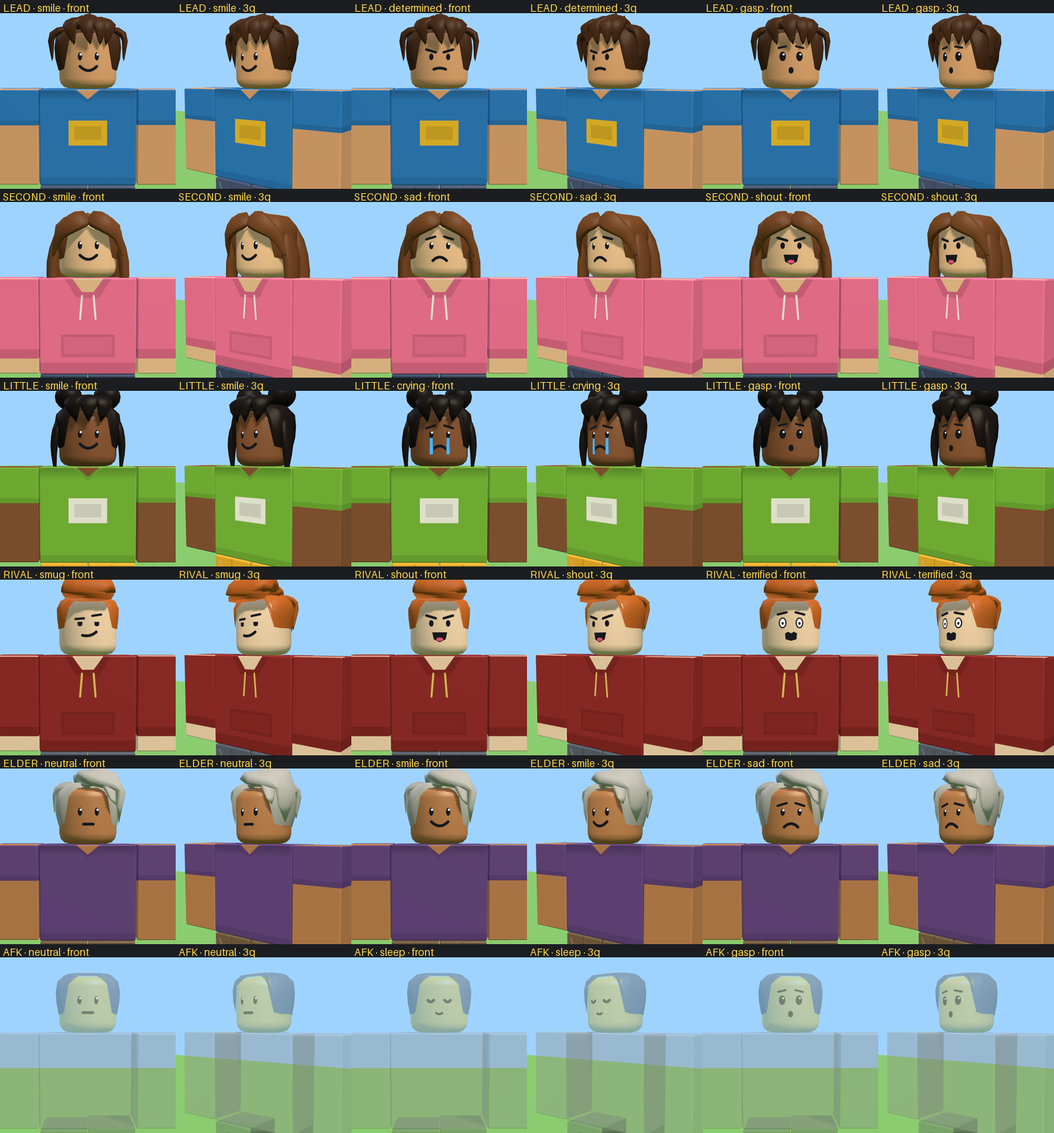
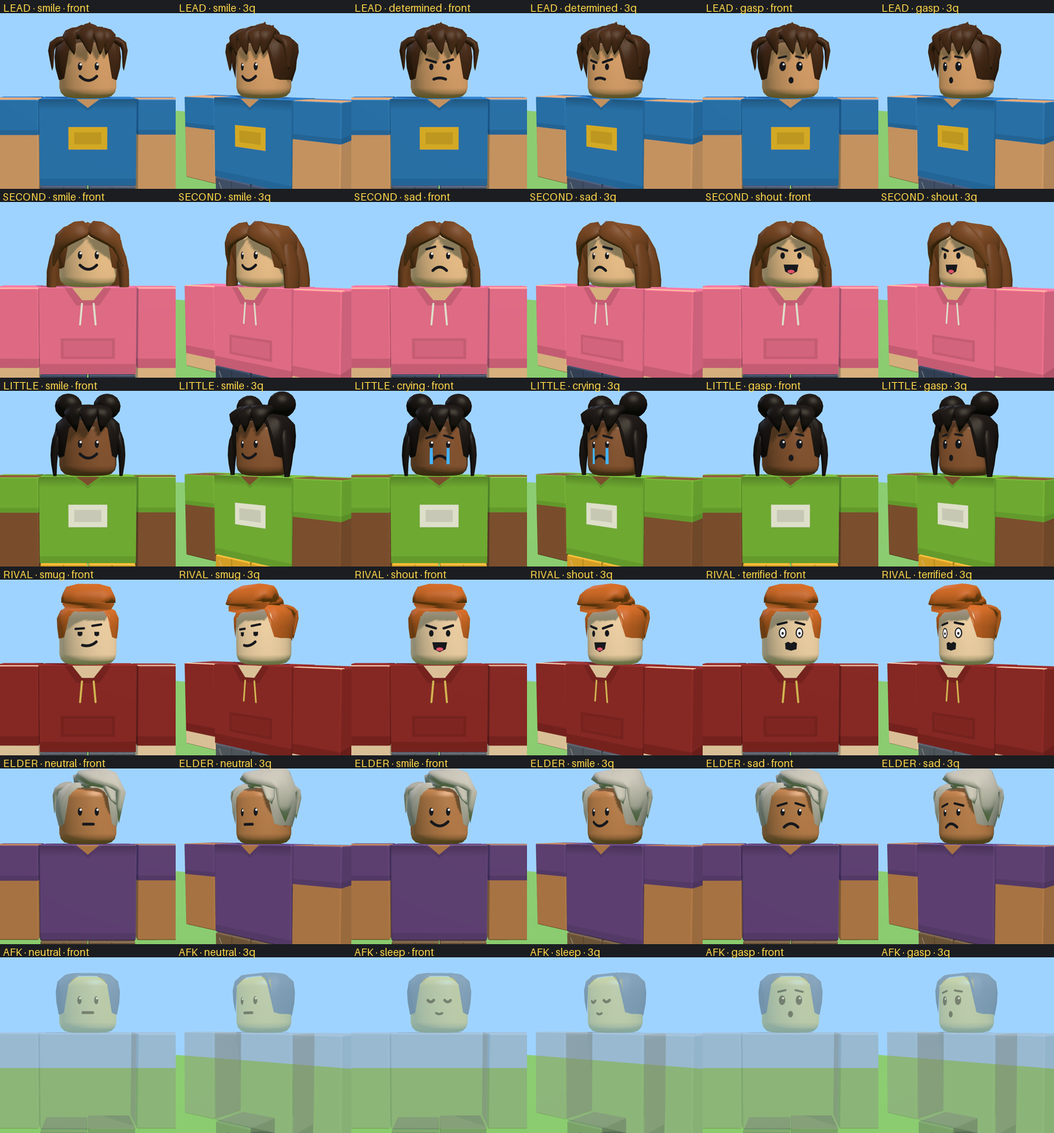
Session 8b: owner Decisions 3–5 — §E PASS (owner), deeper nightBright sky + glowing egg; fine terrain within 30 units + ragdoll LOD/merge (≤ 90k PASS, s/frame 0.68–0.70 reported); body builds (adult_f, youth, elder_f) + tests + builds-390.png; stability, Nobody, tests pass
Claude-Session: https://claude.ai/code/session_01J6UjxwALwUXzwUnfoeqYWB

diff --git a/engine/fixtures/looktest/egg.js b/engine/fixtures/looktest/egg.js
@@ -17,6 +17,17 @@ export const LAYER = {plaza: .14, road: .1};
 const NIGHT_DIM = .6, SQ = 18, ROAD = 33, BASE_R = 47, POND = [52, 44];
 
 const OLD = {asphalt: ['plastic', '#55585f'], concrete: ['plastic'], plaster: ['plastic'], roofTile: ['slate']};   // the v2 kit had no such patterns
+// Decision 3: a glowing egg reads at 390 px: warm emissive body, a gold back-face rim shell, and a soft additive halo sprite.
+let haloTex = null;
+function glowEgg(r, glow = true) {
+  const g = new T.Group(), body = new T.Mesh(new T.SphereGeometry(r, 16, 12), new T.MeshPhongMaterial({color: '#fff3c8', emissive: '#ffc14a', emissiveIntensity: glow ? 1.5 : .9}));
+  body.scale.set(1, 1.3, 1); g.add(body); if (!glow) return g;
+  const rim = new T.Mesh(new T.SphereGeometry(r * 1.12, 16, 12), new T.MeshBasicMaterial({color: '#ffd24a', side: T.BackSide, toneMapped: false})); rim.scale.set(1, 1.3, 1); g.add(rim);
+  if (!haloTex && typeof document !== 'undefined') { const c = document.createElement('canvas'); c.width = c.height = 128; const x = c.getContext('2d'), gr = x.createRadialGradient(64, 64, 0, 64, 64, 64);
+    gr.addColorStop(0, 'rgba(255,214,110,.85)'); gr.addColorStop(.35, 'rgba(255,190,70,.35)'); gr.addColorStop(1, 'rgba(255,170,40,0)'); x.fillStyle = gr; x.fillRect(0, 0, 128, 128); haloTex = new T.CanvasTexture(c); haloTex.colorSpace = T.SRGBColorSpace; }
+  const halo = new T.Sprite(new T.SpriteMaterial({map: haloTex, blending: T.AdditiveBlending, depthWrite: false, transparent: true, toneMapped: false})); halo.scale.setScalar(r * 6); halo.renderOrder = 3; g.add(halo);
+  return g;
+}
 export function build(scene, {P, B, A, M, PR, TR, BI, V, W, look, spec}) {
   const NEW = spec.kit !== 'old', R = B.rng(11), anchors = {}, movers = [], hero = new T.Group(); hero.name = 'hero';
   const dim = (c, k = NIGHT_DIM) => '#' + new T.Color(c).multiplyScalar(k).getHexString();   // A5 Decision 2: night ground/walls at ~60 %
@@ -33,7 +44,7 @@ export function build(scene, {P, B, A, M, PR, TR, BI, V, W, look, spec}) {
       ...bases.map(b => ({type: 'pad', x0: b.x - 8, x1: b.x + 8, z0: b.z - 8, z1: b.z + 8, y: .4 + (b.i % 3) * .3, blend: 8})),
       {type: 'valley', from: [POND[0] - 8, POND[1]], to: [POND[0] + 10, POND[1] + 6], w: 16, depth: 3.2}];
     const height = TR.heightFn({seed: 5, controls}); groundY = height;
-    const terr = TR.buildTerrain({height, size: 660, chunk: 30, fine: 1.5, fullR: 60, focus: [[0, 76], [11, 32], [-6, 24], [8, 22]], material: M.splatMaterial(bio.terrain.layers, {splat: bio.terrain, wetY: -1.1}), splat: bio.terrain});   // A5: per-pixel blend, 1.5-unit cells near the cameras
+    const terr = TR.buildTerrain({height, size: 660, chunk: 30, fine: 1.5, fullR: 30, focus: [[0, 76], [11, 32], [-6, 24], [8, 22]], material: M.splatMaterial(bio.terrain.layers, {splat: bio.terrain, wetY: -1.1}), splat: bio.terrain});   // A5: per-pixel blend, 1.5-unit cells near the cameras
     scene.add(terr);
     const wat = W.water({height, x0: POND[0] - 22, x1: POND[0] + 24, z0: POND[1] - 14, z1: POND[1] + 18, y: -1.1, ...bio.water, sky: '#3a5aa0', foam: .1, envMap: look.envMap?.()});
     scene.add(wat.mesh); movers.push(wat);
@@ -66,7 +77,7 @@ export function build(scene, {P, B, A, M, PR, TR, BI, V, W, look, spec}) {
     g.add(P.block([3.6, 5, .3], {at: [0, 3.3, d / 2 + .1], mat: mt('woodPlanks', c), cast: true}));                      // door
     for (const sx of [-1, 1]) { const m = new T.Mesh(new T.BoxGeometry(2, 2, .2), win); m.position.set(sx * (w / 2 - 2.2), 4.2, d / 2 + .12); g.add(m); }
     const pad = new T.Mesh(new T.RingGeometry(1.6, 2.3, 32), new T.MeshBasicMaterial({color: c, fog: true})); pad.rotation.x = -Math.PI / 2; pad.position.set(0, .06, d / 2 + 3.2); g.add(pad);   // lock ring
-    const egg = new T.Mesh(new T.SphereGeometry(.45, 12, 8), new T.MeshPhongMaterial({color: '#fff3c8', emissive: '#ffcf6b', emissiveIntensity: .9})); egg.scale.set(1, 1.3, 1); egg.position.set(2.6, 1.2, d / 2 + 1.6); g.add(egg);
+    const egg = glowEgg(.45, NEW); egg.position.set(2.6, 1.2, d / 2 + 1.6); g.add(egg);
     g.position.set(b.x, groundY(b.x, b.z), b.z); g.rotation.y = b.yaw; return g;
   }
   function clockTower() {
@@ -116,7 +127,7 @@ export function build(scene, {P, B, A, M, PR, TR, BI, V, W, look, spec}) {
     // warm practical light: two real point lights over the square (≤ 4 allowed) key the avatars and pool on the cobbles
     for (const [x, z] of [[-3.5, 14], [4.5, 12]]) { const l = new T.PointLight('#ffc27a', 9, 11, 2); l.position.set(x, groundY(x, z) + 4.2, z); scene.add(l); }   // warm practicals keyed on the cast's faces, short reach
     // A5 §E: a glowing egg on the square is a real light source (third point light of ≤ 4)
-    const eg = new T.Mesh(new T.SphereGeometry(.55, 16, 12), new T.MeshPhongMaterial({color: '#fff3c8', emissive: '#ffc14a', emissiveIntensity: 1.6})); eg.scale.set(1, 1.3, 1); eg.position.set(-.6, groundY(0, 10) + .75, 11.5); eg.name = 'egg'; scene.add(eg);
+    const eg = glowEgg(.55, true); eg.position.set(-.6, groundY(0, 10) + .75, 11.5); eg.name = 'egg'; scene.add(eg);
     // (the egg glows by emission only: a light at its height would pool on the cobbles around the cast)
     // gardens: a hedge pair flanking every base door + a tree between neighbouring bases
     const hedge = new T.MeshPhongMaterial({color: '#4f7a3a', shininess: 6, map: M.patternTexture('leaves')}), trunk = new T.MeshPhongMaterial({color: '#5a4232', map: M.patternTexture('bark')}), crown = new T.MeshPhongMaterial({color: '#3f6a34', shininess: 8, map: M.patternTexture('leaves')});   // A5: smooth

diff --git a/avatar-style/body.js b/avatar-style/body.js
@@ -56,17 +56,59 @@ export const PARTS = {
 
 // createActor: {tier: 'hero'|'bg', skin, scale, materials: {torso, leftArm, ...}} → avatar-shaped object.
 // `materials[part]` may be one material or a 6-face array (clothing paint); default is skin plastic.
-export function createActor({tier = 'hero', skin = SKINS[0], scale = 1, materials = {}, name = 'actor'} = {}) {
+// ---- A5 Decision 5: body builds (opt-in `build`; adult_m = the original torso) -----------------------------------
+// Widths in studs at the shoulders (top), waist (at waistAt of the torso height, from the top) and hips (bottom).
+export const BUILDS = {
+  adult_m: {shoulder: 2, waist: 2, hip: 2, waistAt: .55, height: 1, leg: .98},
+  adult_f: {shoulder: 1.9, waist: 1.6, hip: 1.85, waistAt: .55, height: 1, leg: .9},     // subtle hourglass, adult women only
+  youth: {shoulder: 2, waist: 2, hip: 2, waistAt: .55, height: .9, leg: .98},            // anyone under 18: straight, 0.9 torso
+  elder_f: {shoulder: 2, waist: 2.12, hip: 2.04, waistAt: .55, height: 1, leg: .98, stoop: .09},   // grandmas: wider waist, stoop
+};
+export const ADULT_ONLY = ['adult_f', 'elder_f', 'adult_m'];
+// Torso width at u (0 = top/shoulders … 1 = bottom/hips): linear shoulder → waist → hip (pure).
+export function torsoWidthAt(build, u) {
+  const b = BUILDS[build] ?? BUILDS.adult_m, w = Math.min(1, Math.max(0, u));
+  return w <= b.waistAt ? b.shoulder + (b.waist - b.shoulder) * (w / b.waistAt) : b.waist + (b.hip - b.waist) * ((w - b.waistAt) / (1 - b.waistAt));
+}
+// A cast entry's build must fit its age: under 18 → youth only (never adult_f / elder_f / adult_m). Returns an error or null.
+export function buildError(entry) {
+  const b = entry.build ?? (entry.age !== undefined && entry.age < 18 ? 'youth' : 'adult_m');
+  if (!BUILDS[b]) return `unknown build ${b}`;
+  if (entry.age !== undefined && entry.age < 18 && b !== 'youth') return `${entry.name ?? 'actor'} is ${entry.age}: build must be youth, not ${b}`;
+  if (entry.age !== undefined && entry.age >= 18 && b === 'youth') return `${entry.name ?? 'actor'} is ${entry.age}: youth is for under 18`;
+  return null;
+}
+// Part layout for a build (pure): torso size/centre, shoulder and hip pivots, leg width.
+export function buildLayout(build) {
+  const b = BUILDS[build] ?? BUILDS.adult_m, th = 2 * b.height, top = 2.02 + th;
+  return {torso: {size: [2, th, 1], at: [0, 2.02 + th / 2, 0]}, headPivot: [0, top + .01, 0], shoulderX: b.shoulder / 2 + .51, shoulderY: top, hipX: Math.max(b.leg / 2 + .005, b.hip / 2 - b.leg / 2 - .005), leg: b.leg};
+}
+function torsoGeometry(build, tier) {
+  if (!build || build === 'adult_m') return blockGeometry(PARTS.torso.size, tier);
+  const L = buildLayout(build), [w, h, d] = L.torso.size;
+  return cached(`torso:${build}:${tier}`, () => {
+    const g = new T.BoxGeometry(w, h, d, 1, tier === 'hero' ? 10 : 6, 1);   // rows through the height so the waist exists (a rounded box only has rows at its bevels)
+    const p = g.attributes.position;
+    for (let i = 0; i < p.count; i++) { const u = (h / 2 - p.getY(i)) / h; p.setX(i, p.getX(i) * torsoWidthAt(build, u) / 2); }
+    g.computeVertexNormals(); return g;
+  });
+}
+
+export function createActor({tier = 'hero', skin = SKINS[0], scale = 1, materials = {}, name = 'actor', build = null} = {}) {
+  const L = build && build !== 'adult_m' ? buildLayout(build) : null;
+  const layout = L ? {torso: {...PARTS.torso, size: L.torso.size, at: L.torso.at}, head: {...PARTS.head, pivotAt: L.headPivot},
+    leftArm: {...PARTS.leftArm, pivotAt: [-L.shoulderX, L.shoulderY, 0]}, rightArm: {...PARTS.rightArm, pivotAt: [L.shoulderX, L.shoulderY, 0]},
+    leftLeg: {...PARTS.leftLeg, size: [L.leg, 2, 1], pivotAt: [-L.hipX, 2, 0]}, rightLeg: {...PARTS.rightLeg, size: [L.leg, 2, 1], pivotAt: [L.hipX, 2, 0]}} : PARTS;
   const root = new T.Group(); root.name = name; root.scale.setScalar(scale);
   const parts = {}, pivots = {};
-  for (const [part, d] of Object.entries(PARTS)) {
+  for (const [part, d] of Object.entries(layout)) {
     let parent = root;
     if (d.pivot) { const p = new T.Group(); p.name = d.pivot; p.position.set(...d.pivotAt); root.add(p); pivots[d.pivot] = p; parent = p; }
-    const geo = part === 'head' ? headGeometry(tier) : blockGeometry(d.size, tier);
+    const geo = part === 'head' ? headGeometry(tier) : part === 'torso' ? torsoGeometry(build, tier) : blockGeometry(d.size, tier);
     const m = new T.Mesh(geo, materials[part] ?? plastic(skin)); m.name = part; m.position.set(...d.at);
     m.castShadow = true; m.receiveShadow = tier === 'hero'; parent.add(m); parts[part] = m;
   }
-  return {root, parts, pivots, tier, skin, restPositions: Object.fromEntries(Object.entries(pivots).map(([n, p]) => [n, p.position.toArray()])),
+  return {root, parts, pivots, tier, skin, build: build ?? 'adult_m', restPositions: Object.fromEntries(Object.entries(pivots).map(([n, p]) => [n, p.position.toArray()])),
     faceCache: new Map(), cosmeticCache: new Map(), faceLayer: null, cosmetic: null, attachments: {}};
 }
 

diff --git a/scripts/v2/builds-sheet.js b/scripts/v2/builds-sheet.js
@@ -1,0 +1,41 @@
+// scripts/v2/builds-sheet.js — A5 Decision 5 review sheet: the four body builds side by side (front + three-quarter, full body)
+// and a mom (adult_f) with Kit (youth) at medium size, every cell 390 × 693 (phone width). → review/season1/builds-390.png
+//   node scripts/v2/builds-sheet.js [--out review/season1]
+import {mkdir, writeFile, readFile} from 'node:fs/promises';
+import {execFileSync} from 'node:child_process';
+import {startServer} from './server.js';
+import {launch} from './browser.js';
+import {resolveTroupe} from '../../engine/troupe.js';
+
+const argv = process.argv.slice(2), out = argv.includes('--out') ? argv[argv.indexOf('--out') + 1] : 'review/season1', raw = 'renders/v2/builds-sheet';
+await mkdir(out, {recursive: true}); await mkdir(raw, {recursive: true});
+const troupe = JSON.parse(await readFile('cast/troupe.json', 'utf8'));
+const cast = {cast: {
+  adult_m: {tier: 'hero', build: 'adult_m', age: 38, skin: '#c08457', face: 'smile', hair: {style: 'side_part', color: '#3a2418', v: 4}, outfit: {recipe: 'tee', main: '#3f8fb0', accent: '#ffffff', legs: '#4a5a80', trim: '#e4574a'}},
+  adult_f: {tier: 'hero', build: 'adult_f', age: 36, skin: '#f6c9a0', face: 'smile', hair: {style: 'wavy_bob', color: '#6b4428', v: 4}, outfit: {recipe: 'tee', main: '#e2733a', accent: '#ffffff', legs: '#4a5a80', trim: '#2f80d1'}},
+  youth: {...resolveTroupe({troupe: 'LEAD'}, troupe), tag: null},
+  elder_f: {tier: 'hero', build: 'elder_f', age: 72, skin: '#e0a77a', face: 'smile', hair: {style: 'messy_bun', color: '#c9c9c9', v: 4}, outfit: {recipe: 'hoodie', main: '#8a6be8', accent: '#ffffff', legs: '#7a6048', trim: '#f2d16b'}},
+  mom: {tier: 'hero', build: 'adult_f', age: 39, skin: '#f6c9a0', face: 'smile', hair: {style: 'long_layered', color: '#7a4a2a', v: 4}, outfit: {recipe: 'tee', main: '#2e9e78', accent: '#ffffff', legs: '#4a5a80', trim: '#f2b632'}, tag: {name: 'Mom'}},
+  kit: {...resolveTroupe({troupe: 'SECOND', role: 'Kit'}, troupe)},
+}};
+await writeFile(`${raw}/cast.json`, JSON.stringify(cast));
+const full = (id, az) => { const a = az * Math.PI / 180, d = 15; return {actors: [{id, at: [0, 0, 0], tag: false, pose: 'idle', t: .3}], camera: {position: [Math.sin(a) * d, 3.2, Math.cos(a) * d], target: [0, 2.75, 0], fov: 28}}; };
+const pair = az => { const a = az * Math.PI / 180, d = 13.5; return {actors: [{id: 'mom', at: [-1.35, 0, 0], yaw: 8, pose: 'idle', t: .2}, {id: 'kit', at: [1.25, 0, .3], yaw: -10, pose: 'wave', t: .4}], camera: {position: [Math.sin(a) * d, 3.4, Math.cos(a) * d], target: [0, 3.0, 0], fov: 34}}; };
+const CELLS = [['adult_m', 'front', full('adult_m', 0)], ['adult_f', 'front', full('adult_f', 0)], ['youth', 'front', full('youth', 0)], ['elder_f', 'front', full('elder_f', 0)], ['mom + Kit', 'medium front', pair(0)],
+  ['adult_m', '3/4', full('adult_m', 38)], ['adult_f', '3/4', full('adult_f', 38)], ['youth', '3/4', full('youth', 38)], ['elder_f', '3/4', full('elder_f', 38)], ['mom + Kit', 'medium 3/4', pair(30)]];
+const server = await startServer(), browser = await launch();
+try {
+  const page = await browser.newPage(); const errors = []; page.on('pageerror', e => errors.push(e.message));
+  await page.goto(`${server.url}/engine/studio.html?cast=${encodeURIComponent(raw + '/cast.json')}`); await page.waitForFunction(() => window.__studio, null, {timeout: 120000});
+  const files = [];
+  for (const [k, [id, view, cell]] of CELLS.entries()) { await page.evaluate(([c]) => window.__studio.render(c, 390, 693), [cell]);
+    const f = `${raw}/${k}.png`; await writeFile(f, Buffer.from((await page.evaluate(() => document.querySelector('canvas').toDataURL('image/png'))).split(',')[1], 'base64')); files.push({f, label: `${id} · ${view}`}); }
+  if (errors.length) throw Error(errors.join('; '));
+  execFileSync('python3', ['-c', `
+import json, sys
+from PIL import Image, ImageDraw, ImageFont
+F = json.loads(sys.argv[1]); f = ImageFont.load_default(size=16); W, H = 390, 693
+s = Image.new('RGB', (W * 5, 2 * (H + 22)), '#111'); d = ImageDraw.Draw(s)
+for k, it in enumerate(F): x, y = (k % 5) * W, (k // 5) * (H + 22); d.text((x + 6, y + 3), it['label'], fill='#ffd84a', font=f); s.paste(Image.open(it['f']).convert('RGB'), (x, y + 22))
+s.save(sys.argv[2]); print(s.size)`, JSON.stringify(files), out + '/builds-390.png'], {stdio: 'inherit'});
+} finally { await browser.close(); await server.close(); }

diff --git a/engine/fixtures/looktest/ragdoll.js b/engine/fixtures/looktest/ragdoll.js
@@ -41,11 +41,11 @@ export function build(scene, {P, B, A, M, PR, TR, BI, V, W, look, spec}) {
       {type: 'river', points: [[-400, 150], [-100, 156], [100, 146], [400, 152]], w: 16, depth: 3, bank: 8}];
     const height = TR.heightFn({seed: 17, base: BASE, controls}); groundY = height;
 
-    scene.add(TR.buildTerrain({height, size: 720, chunk: 30, fine: 1.5, fullR: 60, focus: [[3, 96], [-5, 30]], centre: [0, -20], material: M.splatMaterial(bio.terrain.layers, {splat: bio.terrain, wetY: VALLEY_Y - 1.4}), splat: bio.terrain}));   // A5: per-pixel blend, 1.5-unit cells
+    scene.add(TR.buildTerrain({height, size: 720, chunk: 30, fine: 1.5, fullR: 30, focus: [[3, 96], [-5, 30]], centre: [0, -20], material: M.splatMaterial(bio.terrain.layers, {splat: bio.terrain, wetY: VALLEY_Y - 1.4}), splat: bio.terrain}));   // A5: per-pixel blend, 1.5-unit cells
     const wat = W.water({height, x0: -300, x1: 300, z0: 128, z1: 172, y: VALLEY_Y - 1.4, ...bio.water, sky: '#cfe4f5', flow: [1, .1], speed: .08, envMap: look.envMap?.()});
     scene.add(wat.mesh); movers.push(wat);
     const avoid = (x, z) => (Math.abs(x) < 24 && z > -110 && z < 92) || lots.some(l => Math.abs(x - l.x) < 8 && Math.abs(z - l.z) < 8);
-    const veg = V.vegetation({height, veg: {...bio.vegetation, treeDensity: .55}, area: {x0: -200, x1: 200, z0: -220, z1: 200}, seed: 4, avoid, focus: [[0, 70], [0, 20]], nearR: 26, waterY: VALLEY_Y - 1});
+    const veg = V.vegetation({height, veg: {...bio.vegetation, treeDensity: .55}, area: {x0: -200, x1: 200, z0: -220, z1: 200}, seed: 4, avoid, focus: [[0, 70], [0, 20]], nearR: 26, shadowR: 25, waterY: VALLEY_Y - 1});   // Decision 4: near LOD only close to the shots
     scene.add(veg.group); movers.push(veg);
     look.addShaft?.({at: [-30, 10, -40], height: 90, width: 12, opacity: .12, tilt: [0, .35]}); look.addShaft?.({at: [26, 18, -70], height: 90, width: 9, opacity: .1, tilt: [0, .35]});
   } else {
@@ -95,7 +95,7 @@ export function build(scene, {P, B, A, M, PR, TR, BI, V, W, look, spec}) {
   const puff = new T.MeshLambertMaterial({color: '#ffffff', transparent: true, opacity: .92, emissive: '#cfd8e6', emissiveIntensity: .25});
   for (let i = 0; i < 14; i++) { const a = i / 14 * Math.PI * 2, m = new T.Mesh(new T.IcosahedronGeometry(6 + R() * 5, 1), puff); m.scale.set(1.5, .55, 1); m.position.set(SUMMIT[0] + Math.sin(a) * 18, sy + 5 + R() * 9, SUMMIT[1] + Math.cos(a) * 14); hero.add(m); }
   for (let i = 0; i < 8; i++) { const l = lots[i * 2 % lots.length], b = PR.smallProp(['barrel', 'crate', 'bench', 'fence'][i % 4], i); b.position.set(l.x - l.s * 6.5, l.y - .4, l.z + 4); add(b); }
-  scene.add(hero);
+  scene.add(NEW ? B.mergeByDistrict(hero, 40) : hero);   // Decision 4: repeated houses/fences/lamps merged per district (one mesh per material per cell)
   movers.push(A.birds({centre: [0, 70, -30], n: 5, r: 30, seed: 5}), A.flag({w: 3, h: 2, color: '#e2483d', pole: 7, seed: 2}));
   const fl = movers[movers.length - 1]; (fl.group ?? fl.object)?.position.set(-8, groundY(-8, 70), 70);
   for (const m of movers) if (m.group || m.object) scene.add(m.group ?? m.object);

diff --git a/engine/actors.js b/engine/actors.js
@@ -2,7 +2,7 @@
 // Preset: {tier: 'hero'|'bg', skin, scale, outfit: {recipe, ...colours}, hair: {style, color},
 //          accessories: ['crown' | {name, ...opts}], tool: 'sword' | {name, ...opts}, tag: {name, role}, face}
 // Everything is built once; per frame only pivots, faces, tags and the root move.
-import {createActor, SKINS} from '../avatar-style/body.js';
+import {createActor, SKINS, BUILDS, buildError} from '../avatar-style/body.js';
 import {dress} from '../avatar-style/clothing.js';
 import {attachHair, attachHair3, attachHair4} from '../avatar-style/hair.js';
 import {attachAccessory} from '../avatar-style/accessories.js';
@@ -14,7 +14,8 @@ import {sampleTimeline, ambientPose, applyPoseSample} from './poses.js';
 
 export function buildActor(preset, name = 'actor') {
   const tier = preset.tier ?? 'hero', skin = preset.skin ?? SKINS[0];
-  const a = createActor({tier, skin, scale: preset.scale ?? 1, name, materials: preset.outfit ? dress(preset.outfit, skin, tier) : {}});
+  const err = buildError({...preset, name}); if (err) throw Error('build: ' + err);   // A5 Decision 5: never an adult build under 18
+  const a = createActor({tier, skin, scale: preset.scale ?? 1, name, build: preset.build ?? null, materials: preset.outfit ? dress(preset.outfit, skin, tier) : {}});
   if (preset.hair) (preset.hair.v === 4 ? attachHair4(a, preset.hair.style, preset.hair.color, preset.hairTier ?? null)   // A5: v4 sculpted (Season 1)
     : preset.hair.v === 3 || preset.hairStyle === 'v3' ? attachHair3(a, preset.hair.style, preset.hair.color, {streak: preset.hair.streak}) : attachHair(a, preset.hair.style, preset.hair.color));
   for (const acc of preset.accessories ?? []) typeof acc === 'string' ? attachAccessory(a, acc) : attachAccessory(a, acc.name, acc);
@@ -53,6 +54,7 @@ export function driveActor(a, t, {keys, faces, tags, origin = {position: [0, 0, 
   if (visible) { let v = true; for (const [t0, x] of visible) if (t >= t0) v = x; a.root.visible = v; }
   const s = ambient ? ambientPose(a.preset.seed ?? 1, t) : sampleTimeline(keys ?? [[0, 'idle']], a.preset.freeze ?? t);   // A4: preset.freeze holds one instant (AFK mid-step)
   applyPoseSample(a, s, origin);
+  const stoop = BUILDS[a.build]?.stoop; if (stoop) { a.root.rotation.x += stoop; a.pivots.head.rotation.x -= stoop * .6; }   // elder_f: slight forward stoop, eyes kept forward
   if (faces) { let f = faces[0][1]; for (const [t0, n] of faces) if (t >= t0) f = n; if (f !== a.face) setFace(a, f); }
   if (tags) {
     let cur = null; for (const k of tags) if (t >= k[0]) cur = k;

diff --git a/scripts/v2/bench.js b/scripts/v2/bench.js
@@ -14,11 +14,11 @@ const story = arg('story');
 const spec = arg('spec') ?? (story && (existsSync(`stories/${story}/episode.json`) ? `stories/${story}/episode.json` : `stories/${story}/stills.json`));
 if (!spec) { console.error('usage: bench.js --story <slug> | --spec <episode.json>'); process.exit(2); }
 const W = Number(arg('width', 720)), H = Number(arg('height', 1280)), N = Number(arg('frames', 8));
-// A4 A7: finals of v3 worlds (spec.world exports LOOK, or spec.budget === 'v3') may use ≤ 80,000 triangles and ≤ 0.60 s/frame.
+// A4 A7 + owner Decision 4: Season 1 (v3) worlds (spec.world exports LOOK, or spec.budget === 'v3') ≤ 90,000 triangles, ≤ 0.62 s/frame.
 import {readFileSync} from 'node:fs';
 const specJson = JSON.parse(readFileSync(spec, 'utf8')), worldSrc = specJson.world ? readFileSync(specJson.world, 'utf8') : '';
 const V3 = specJson.budget === 'v3' || /export const LOOK\b/.test(worldSrc);
-const MAX_TRI = V3 ? 80000 : 50000, MAX_S = V3 ? .60 : .45;
+const MAX_TRI = V3 ? 90000 : 50000, MAX_S = V3 ? .62 : .45;   // owner Decision 4 (A5): Season 1 worlds ≤ 90k, ≤ 0.62 s at 720
 
 const server = await startServer(process.cwd()), browser = await launch();
 try {
@@ -53,6 +53,6 @@ try {
   const over = rows.filter(r => r.triangles > MAX_TRI).map(r => r.shot);
   const pass = !over.length && mean <= MAX_S && !errors.length;
   console.table(rows);
-  console.log(JSON.stringify({spec, budget: V3 ? 'A4 v3 (80k, 0.60 s)' : 'v2 (50k, 0.45 s)', size: `${W}x${H}`, browser: browser.resolved.executablePath ?? 'playwright', maxTriangles: Math.max(...rows.map(r => r.triangles)), meanSecondsPerFrame: mean, meanSecondsPerFrame1080: mean1080, target1080: 1.0, overBudget: over, errors, result: pass ? 'PASS' : 'FAIL'}));
+  console.log(JSON.stringify({spec, budget: V3 ? 'Season 1 (90k, 0.62 s)' : 'v2 (50k, 0.45 s)', size: `${W}x${H}`, browser: browser.resolved.executablePath ?? 'playwright', maxTriangles: Math.max(...rows.map(r => r.triangles)), meanSecondsPerFrame: mean, meanSecondsPerFrame1080: mean1080, target1080: 1.0, overBudget: over, errors, result: pass ? 'PASS' : 'FAIL'}));
   process.exitCode = pass ? 0 : 1;
 } finally { await browser.close(); await server.close(); }

diff --git a/tests/v2/s8b.test.js b/tests/v2/s8b.test.js
@@ -97,3 +97,20 @@ test('lumagate: mask mean and a 6–14 px ring on a synthetic image', () => {
   const s = maskStats(luma, mask, w, h); assert.ok(Math.abs(s.actor - .7) < 1e-6); assert.equal(s.actorPx, 400);
   assert.ok(Math.abs(s.ring - .3) < .02, String(s.ring)); assert.ok(Math.abs(s.contrast - .4) < .02);
 });
+
+import {BUILDS, torsoWidthAt, buildError, buildLayout, createActor} from '../../avatar-style/body.js';
+test('body builds: torso widths, youth height, no adult build under 18, adult_m unchanged', () => {
+  const near = (a, b) => Math.abs(a - b) < 1e-9;
+  assert.ok(near(torsoWidthAt('adult_f', 0), 1.9) && near(torsoWidthAt('adult_f', .55), 1.6) && near(torsoWidthAt('adult_f', 1), 1.85));
+  assert.ok(torsoWidthAt('adult_f', .3) < 1.9 && torsoWidthAt('adult_f', .3) > 1.6, 'tapers between shoulders and waist');
+  for (const u of [0, .3, .55, .8, 1]) assert.equal(torsoWidthAt('adult_m', u), 2);
+  assert.ok(torsoWidthAt('elder_f', .55) > torsoWidthAt('elder_f', 0) && BUILDS.elder_f.stoop > 0);
+  assert.ok(near(buildLayout('youth').torso.size[1], 1.8) && near(buildLayout('youth').headPivot[1], 3.83));
+  assert.ok(buildError({age: 11, build: 'adult_f'}) && buildError({age: 9, build: 'elder_f'}) && buildError({age: 14, build: 'adult_m'}));
+  assert.equal(buildError({age: 11, build: 'youth'}), null); assert.equal(buildError({age: 11}), null); assert.equal(buildError({age: 40, build: 'adult_f'}), null);
+  assert.ok(buildError({age: 30, build: 'youth'})); assert.ok(buildError({build: 'giant'}));
+  const m = createActor({}), f = createActor({build: 'adult_f'});
+  assert.deepEqual(m.restPositions.leftShoulder, [-1.51, 4.02, 0]); assert.ok(Math.abs(f.restPositions.leftShoulder[0] + 1.46) < 1e-9);
+  const p = f.parts.torso.geometry.attributes.position; let maxX = 0; for (let i = 0; i < p.count; i++) maxX = Math.max(maxX, Math.abs(p.getX(i))); assert.ok(maxX <= .951 && maxX > .9);
+  const data = JSON.parse(rf('cast/troupe.json', 'utf8')); for (const k of ['LEAD', 'SECOND', 'LITTLE', 'RIVAL']) { assert.equal(data.troupe[k].build, 'youth'); assert.ok(data.troupe[k].age < 18); }
+});

diff --git a/engine/fixtures/tools/world.js b/engine/fixtures/tools/world.js
@@ -13,7 +13,7 @@ export function build(scene, {P, B, A, M, PR, TR, BI, V, W, look, spec}) {
     {type: 'pad', x0: -14, x1: 14, z0: 10, z1: 34, y: 0, blend: 8}, {type: 'river', points: [[-200, 70], [0, 62], [200, 74]], w: 12, depth: 2.4, bank: 6}];
   const height = TR.heightFn({seed: 31, controls});
   const mat = M.splatMaterial(bio.terrain.layers);   // per-vertex: the landform giant keeps its Session 8 material (out of scope in 8b)
-  scene.add(TR.buildTerrain({height, size: 570, chunk: 30, fine: 1.5, fullR: 60, focus: [[0, 50], [4, 43], [10, 23], [8, 58]], material: M.splatMaterial(bio.terrain.layers, {splat: bio.terrain, wetY: -1.2}), splat: bio.terrain}));   // A5: per-pixel blend
+  scene.add(TR.buildTerrain({height, size: 570, chunk: 30, fine: 1.5, fullR: 30, focus: [[0, 40], [4, 43], [0, 50], [8, 58], [10, 23]], material: M.splatMaterial(bio.terrain.layers, {splat: bio.terrain, wetY: -1.2}), splat: bio.terrain}));   // A5: per-pixel blend
   const wat = W.water({height, x0: -220, x1: 220, z0: 52, z1: 84, y: -1.2, ...bio.water, sky: '#b9c9d6', flow: [1, 0], speed: .06, envMap: look.envMap?.()}); scene.add(wat.mesh); movers.push(wat);
   const veg = V.vegetation({height, veg: bio.vegetation, area: {x0: -180, x1: 180, z0: -160, z1: 140}, seed: 6, focus: [[0, 26]], nearR: 22, waterY: -1.2,
     avoid: (x, z) => (Math.abs(x) < 20 && z > 0 && z < 40) || Math.hypot(x - GIANT[0], (z - GIANT[1]) * .8) < 90 || (Math.abs(x) < 4 && z < 10 && z > -20)});

diff --git a/engine/look.js b/engine/look.js
@@ -15,7 +15,7 @@ export const PRESETS = {
   storm: {skyTop: '#4a5566', skyHorizon: '#8a96a6', fog: '#8a96a6', fogNear: 40, fogFar: 200, hemiSky: '#b8c2d0', hemiGround: '#55604a', hemi: 1.0,
     sun: '#dfe6f0', sunI: 1.0, sunEl: 60, sunAz: 20, rim: '#cfd8e6', rimI: .3, cloud: '#7d8796', exposure: 1.05, windows: .3},
   // A5 §E: a night bright enough for a phone: strong cool moon key, teal-blue ambient, raised exposure (episode 1 is all night)
-  nightBright: {skyTop: '#123a6a', skyHorizon: '#4a86b8', fog: '#2f5a86', fogNear: 90, fogFar: 340, hemiSky: '#7cc0d4', hemiGround: '#22394a', hemi: 1.15,
+  nightBright: {skyTop: '#0b2550', skyHorizon: '#33649a', fog: '#2f5a86', fogNear: 90, fogFar: 340, hemiSky: '#7cc0d4', hemiGround: '#22394a', hemi: 1.15,   // Decision 3: sky one step deeper blue
     sun: '#cfe0ff', sunI: 1.6, sunEl: 22, sunAz: 25, rim: '#c4e2ff', rimI: 3.4,   // A5 Decision 1: low key from the camera side → upright fronts outshine flat ground
     cloud: '#5a76a8', exposure: 1.16, windows: 1.5},
   fireNight: {skyTop: '#3a2244', skyHorizon: '#ff9a5a', fog: '#8a4a42', fogNear: 60, fogFar: 260, hemiSky: '#ffb487', hemiGround: '#4a3a5a', hemi: 1.5,

diff --git a/engine/troupe.js b/engine/troupe.js
@@ -4,10 +4,11 @@
 //   cast entry: {style: 'v2', troupe: 'LEAD' | 'SECOND' | 'LITTLE' | 'RIVAL' | 'ELDER' | 'AFK', role: 'Kit', outfit: {...},
 //                accessories: [...], tool, face}
 export const SLOTS = ['LEAD', 'SECOND', 'LITTLE', 'RIVAL', 'ELDER'];
-const FIXED = ['skin', 'hair', 'scale', 'tier'];
+const FIXED = ['skin', 'hair', 'scale', 'tier', 'build', 'age'];
 export function resolveTroupe(entry, data) {
   const slot = entry.troupe;
   if (slot === 'AFK') { const {expressions, pose, ...p} = data.AFK; return {...p, hair: {...p.hair}}; }
+  // build + age are fixed per slot (A5 Decision 5): the kids are youth, the elder an adult
   const base = data.troupe?.[slot]; if (!base) throw Error('unknown troupe slot ' + slot);
   const {expressions, ...p} = base, out = {...p, hair: {...p.hair}};
   if (entry.outfit) out.outfit = {...entry.outfit};

diff --git a/CLAUDE.md b/CLAUDE.md
@@ -22,7 +22,7 @@ Source of truth: `docs/V2_BRIEF.md` (owner's brief). Progress and decisions: `PR
 
 ## Commands
 - `npm run v2:preflight`: environment check, one JSON object (~3 s) · `npm run v2:test`: pure-logic tests (`tests/v2/`).
-- `npm run v2:bench -- --spec <episode.json>` or `--story <slug>`: triangles, calls, s/frame per shot (PASS ≤ 50k tris, ≤ 0.45 s/frame; A4 v3 worlds ≤ 80k, ≤ 0.60).
+- `npm run v2:bench -- --spec <episode.json>` or `--story <slug>`: triangles, calls, s/frame per shot (PASS ≤ 50k tris, ≤ 0.45 s/frame; Season 1 / v3 worlds ≤ 90k, ≤ 0.62 — owner Decision 4; the real gate is final render + assemble ≤ 3 h on the farm).
 - `npm run v2:stability -- --story <slug>` or `--spec <file>`: camera-nudge flicker gate (4 mm, ≤ 0.30 %) → `review/<slug>/stability*.json`. **Must pass before any animatic/final is shown.**
 - `npm run v2:align -- --story <slug> [--ref cues.json]` (voice → `build/cues.json`) · `npm run v2:plan -- --story <slug>` (§5.2 gate, exit 1 on error → `review/<slug>/plan.json`) · `npm run v2:render -- --spec <episode.json> --out <dir> [--final | --width 270 --height 480 --every 2 --aa 0]` (cached frames, `progress.json`; `--final` = native 1440×2560 + AA, the A2 delivery preset).
 - `node scripts/v2/avatar-sheet.js` / `python3 scripts/v2/world-sheet.py`: cast sheet + 390 px phone shot / world stills + luma stats → `review/nobody/`. A4: `node scripts/v2/hair-sheet.js` · `troupe-sheet.js` · `python3 scripts/v2/look-ab-s1.py` → `review/season1/`.
@@ -48,11 +48,12 @@ Source of truth: `docs/V2_BRIEF.md` (owner's brief). Progress and decisions: `PR
 - faces: smile, neutral, determined, terrified, smug, sad, crying, shout, gasp, sleep.
 - hair: short_messy, side_swept, spiky, bowl, long_straight, ponytail, twin_buns, braids, curly_blocks, bald (v2, "Nobody"). hair v4 (`hair: {style, color, v: 4}`, `avatar-style/hair4.js`, sculpted volumes mass/clump/bun/braid/curls, tiers hero ≤ 2,400 · mid ≤ 700 · crowd ≤ 140, gates `node scripts/v2/hair-gates.js`): messy_fringe, side_part, quiff, curtains, fade_textured, spiky_crop, curly_top, shaggy_mop · long_layered, high_ponytail, space_buns, low_twintails, wavy_bob, sleek_long, messy_bun, long_braids, curly_puffs, wolf_cut · buzz, bald. (v3 file kept, unused.)
 - troupe (`cast/troupe.json`, hair v4; cast entry `{style: 'v2', troupe: SLOT, role, outfit, accessories}`): LEAD, SECOND, LITTLE (0.62), RIVAL, ELDER + AFK (grey classic, buzz, 0.4, frozen mid-step, tag AFK). Night palette rule (`nightPaletteCheck`): hero/troupe outfit colours HSL L ≥ 0.32 in night shots. `actorLift` (night self-light) is per shot: on under night/nightBright (default 0.5), off in daylight; `heroSpots` = one narrow shadowed spot per hero in medium/close night shots.
+- builds (`build` on actors/presets; `avatar-style/body.js` BUILDS, `torsoWidthAt`, `buildError`): adult_m (default), adult_f (hourglass 1.9/1.6/1.85, adult women only), youth (anyone under 18: 0.9 torso), elder_f (wider waist, stoop); a cast `age` < 18 can only be youth. Troupe kids are youth (`builds-sheet.js` → `builds-390.png`).
 - outfits: tunic, armor, robe, apron, royal, peasant, tee, hoodie, classic. accessories: crown, helmet, hood, strawHat, scarf, cape, backpack, chefHat, featherCap, goggles. tools: sword, hammer (stone), torch, bread, `class:<cls>[:bg]`.
 - poses: idle, look_react, walk, run, jump, fall, climb, toolHold, toolSwing, pull, pullOne, lift, raise, hammerHold, point, cheer, recoil, trip, shiver, lookUp, sit, sleep, wave; ambientPose(seed). dragon (`avatar-style/dragon.js`, ≤ 4k tris): perch, fly, roar, breathe, lower, turn, flinch, cry, flee.
 - rule UI anywhere (`spec.ui`, `engine/ruleui.js`): tag, stat, bar, icon, card, checklist, plate on any `actor.part|pivot` or object, `facing: screen|world`, pops on change; v3 worlds enforce min cap height (tags 2.4 %, stats/plates 3 %, shot `focusUi` 4.5 %) and the safe area (5 % sides, 8 % top, out of the 58–74 % caption band; clamp, never clip).
 - overlays: name tag (pop, screen cap), stat (number/bar/tile), chat bubble (≤ 4 words), class card (`big`/`mini`, slam → fly into a class-coloured tag; `tags` entry `[t, name, role, {cls}]`). cast timelines: `kit` (accessories), `marks`, `visible`, `tools`/`toolsLeft`, `stat`, `bubble`, `tags`, `faces`, `keys`; `worldState` keys → `world.setState`.
-- patterns: plastic, studs, grass, sand, water, glass, neon, metal, moss (flat); brick, cobble, slate, woodPlanks, thatch, rock, dirt (relief, normal-mapped); A4: bark, leaves, cliff, snow, mud, concrete, roofTile, crystal, ice (relief), asphalt, plaster; `M.std` (Standard + env map, 512 px, hero environment only), `M.splatMaterial` (3-layer terrain; with `splat` thresholds = per-pixel blend from world normal/height + noise, `wetY` wet band). looks: day, goldenHour, night, nightBright (A5: low cool moon key from the camera side, teal ambient), storm (contrasty cloud shapes), fireNight; v3 sky (sun disc, moon, stars, 2 cloud layers, height fog, env map, `addShaft`).
+- patterns: plastic, studs, grass, sand, water, glass, neon, metal, moss (flat); brick, cobble, slate, woodPlanks, thatch, rock, dirt (relief, normal-mapped); A4: bark, leaves, cliff, snow, mud, concrete, roofTile, crystal, ice (relief), asphalt, plaster; `M.std` (Standard + env map, 512 px, hero environment only), `M.splatMaterial` (3-layer terrain; with `splat` thresholds = per-pixel blend from world normal/height + noise, `wetY` wet band). looks: day, goldenHour, night, nightBright (A5: deep-blue sky, low cool moon key from the camera side, teal ambient; owner-accepted), storm (contrasty cloud shapes), fireNight; v3 sky (sun disc, moon, stars, 2 cloud layers, height fog, env map, `addShaft`).
 - environment: terrain controls noise, slope, hill, ridge, valley, plateau, pad, river, cliff (2-level LOD, skirts); biomes alpine, meadow, coast, desert, cave, cloudtop, suburb, downtown, nightfield; trees conifer, broadleaf, poplar, palm (smooth welded blob canopies + bark, ≤ 260, far LOD) + bushes, grass cards, rocks, flowers (shader wind); water (scroll, fresnel, foam, flow); landform rig (shoulder, eyelid, arm, hand, leg, foot; sleep, stir, open, reach, rise; ≤ 12k).
 - crowds (`spec.crowds`, ≤ 60 instanced, lathe heads + v4 crowd hair in 6 colours): ambient, panic (dir), lookUp, cheer; close/medium shots promote ≤ 8 members within 9 units to mid-tier actors (`promoteNear`).
 - props: `classSword(cls, {tier})` ×6 + `CLASSES` (baker, knight, king, archer, smith, farmer: sword, colour, icon, accessory, fx), sword (hero/ring), ringStone ×3 (+moss), heroStone (3 crack stages), instanceGroup, mergeParts; small props (`smallProp(name, seed)`, ≤ 400 tris): barrel, crate, sack, lantern, torch, bench, fence, cart, sign, tree ×3, bush, rock ×3, cloud, banner. ground: ribbon, groundY/LAYER, blobs, tufts.

diff --git a/PROGRESS.md b/PROGRESS.md
@@ -539,3 +539,43 @@ Also built: `render.js --final` (1440×2560, AA). `scripts/v2/qc.py` (`npm run v
     1. The giant stays a mossy boulder (out of scope).
     2. The 40-strong crowd behind Stan in the heroLow reads as a wall of torsos.
     3. Mia's wave is cut by the right edge in the night shot.
+
+## Session 8b, Decisions 3–5 (owner, 2026-11-14) — done; stop for owner review
+- **Decisions 3–5:** appended to `docs/season1/A5_LOOK_FIX.md` and the brief. **§E: PASS (owner, Decision 3).**
+- **Decision 3 (night polish):**
+  - nightBright sky one step deeper (`#0b2550` / `#33649a`). A comment had swallowed this preset's fog and ambient keys; the look test caught it and it is fixed.
+  - Eggs get an emissive gold back-face rim plus a soft additive halo (`glowEgg`).
+  - `night-egg-390.png` refreshed: square 0.421; kitMed frame 0.401, Kit 0.437, diff 0.080; daxMed frame 0.339, Dax 0.247, diff −0.096 (accepted by owner review).
+- **Decision 4 (speed):** fine terrain cells only within 30 units of the shot cameras. Ragdoll gets near LOD within 25 units and its repeated houses, fences and lamps merged per district. Bench limit set to 90k / 0.62 s for Season 1 worlds.
+  - One pass, at 720:
+
+    | | Demo | Egg | Ragdoll |
+    |---|---|---|---|
+    | Triangles | 61,482 | 80,604 | 86,896 |
+    | s/frame | **0.692** | **0.696** | **0.678** |
+
+  - Triangles pass (≤ 90k). Time is over 0.62 s. Reported; continuing per the owner, who will decide at episode 1 from the farm time.
+- **Decision 5 (builds):**
+  - `avatar-style/body.js`: `BUILDS`, pure `torsoWidthAt`, `buildLayout`, `buildError` (tested: widths 1.9/1.6/1.85, youth torso 1.8, no adult build under 18, adult_m unchanged). `createActor({build})`; `buildActor` refuses a mismatch; elder_f stoops in `driveActor`.
+  - Troupe kids (LEAD 12, SECOND 11, LITTLE 7, RIVAL 15) are `youth`; ELDER is `adult_m`.
+  - Tapered builds use a 10-row box: the rounded box only has rows at its bevels, so a waist was impossible. **This drops the 0.03 bevel on adult_f/elder_f torsos only.**
+  - `scripts/v2/builds-sheet.js` → `builds-390.png`.
+- **Checks:**
+  - `v2:stability`: demo 0.046 %, egg 0.047 %, ragdoll 0.048 %.
+  - "Nobody": 11/11 byte-identical.
+  - `hair-gates.json`: PASS.
+  - `v2:test` 67 + `npm test` pass.
+  - `CLAUDE.md`: builds line, Season 1 budget, nightBright.
+- **Three weakest things per new or refreshed sheet:**
+  - **`builds-390.png`:**
+    1. The adult_f waist is subtle at 390 px and mostly hidden behind the arms from three-quarter.
+    2. Youth arms are unchanged in length, so they hang below the shorter torso.
+    3. The elder_f stoop barely reads in idle, and her wider waist is lost under the hoodie.
+  - **`night-egg-390.png`:**
+    1. The lit lavender cloud bank still fills the top third, so the deeper sky shows only in strips.
+    2. The egg halo at Kit's feet is big and bright enough to compete with her face.
+    3. Kit's tag and Dax's tag both float in the Kit medium, which crowds the top.
+  - **`troupe-sheet.png` / `troupe-phone-390.png`** (youth builds now):
+    1. With youth torsos the kids read stockier, not younger: the heads stay full size.
+    2. Line-up figures are still 14 % of frame height with 55 % sky above.
+    3. AFK (adult_m) towers over the youth troupe, so he reads as a grown-up, not a frozen player.
